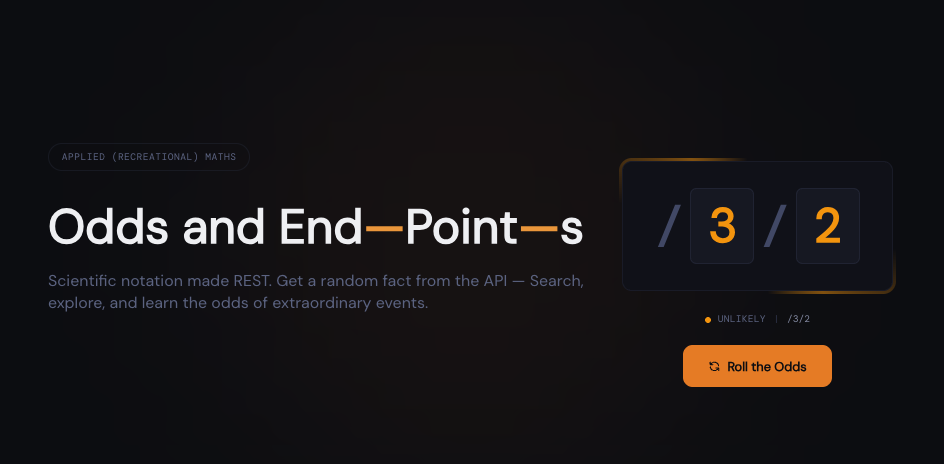
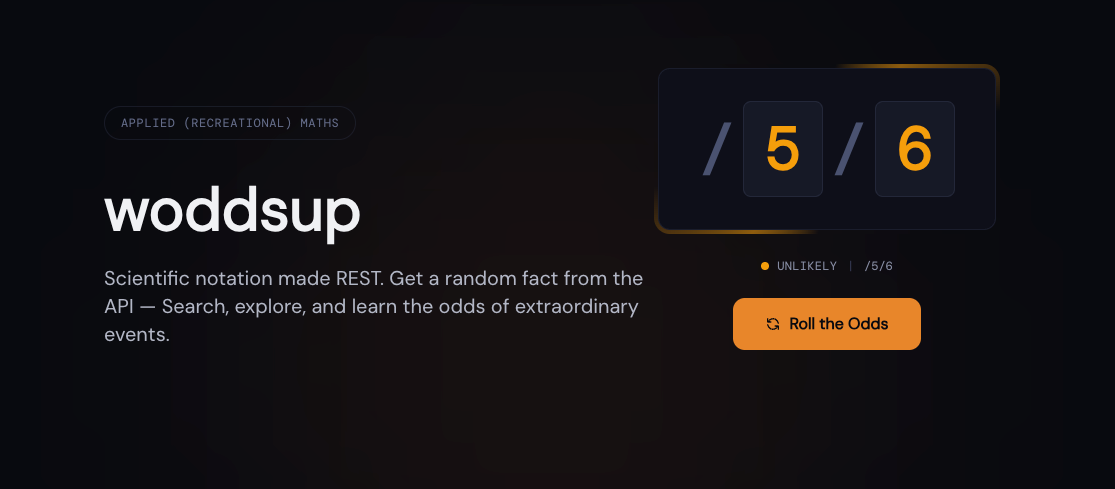
update name to woddsup.com

diff --git a/web/app/app.vue b/web/app/app.vue
@@ -11,23 +11,23 @@ useHead({
 });
 
 useSeoMeta({
-  title: 'Odds and End—Point—s',
-  ogTitle: 'Odds and End—Point—s',
+  title: 'woddsup',
+  ogTitle: 'woddsup',
   description: 'Scientific notation made REST. Get a random fact from the API',
   ogDescription:
     'Scientific notation made REST. Get a random fact from the API',
   ogImage: '/cover.png',
   ogImageWidth: 944,
   ogImageHeight: 464,
-  ogImageAlt: 'Odds and End—Point—s — Scientific notation made REST',
+  ogImageAlt: 'woddsup — Scientific notation made REST',
   ogType: 'website',
-  ogSiteName: 'Odds and End—Point—s',
+  ogSiteName: 'woddsup',
   ogLocale: 'en_US',
   twitterCard: 'summary_large_image',
   twitterImage: '/cover.png',
-  twitterTitle: 'Odds and End—Point—s',
+  twitterTitle: 'woddsup',
   twitterDescription:
     'Scientific notation made REST. Get a random fact from the API',
-  twitterImageAlt: 'Odds and End—Point—s — Scientific notation made REST',
+  twitterImageAlt: 'woddsup — Scientific notation made REST',
 });
 </script>

diff --git a/web/app/pages/index.vue b/web/app/pages/index.vue
@@ -18,15 +18,9 @@
             </span>
           </div>
           <h1
-            class="text-xl sm:text-4xl md:text-6xl font-display font-bold text-ink-50 mb-6 flex flex-col sm:flex-row sm:justify-center"
+            class="text-xl sm:text-4xl md:text-6xl font-display font-bold text-ink-50 mb-6"
           >
-            <span>Odds and&nbsp;</span>
-            <span
-              >End<span class="text-ember-400">&mdash;</span>Point<span
-                class="text-ember-400"
-                >&mdash;</span
-              >s</span
-            >
+            woddsup
           </h1>
           <p
             class="text-lg md:text-xl text-ink-200 mb-12 max-w-2xl mx-auto leading-relaxed"

diff --git a/web/app/pages/e/[n]/[m].vue b/web/app/pages/e/[n]/[m].vue
@@ -138,8 +138,8 @@ const firstEvent = computed(() => events.value?.[0]);
 useSeoMeta({
   title: () => {
     const evt = firstEvent.value;
-    if (!evt) return `/${n.value}/${m.value} — Odds and End—Point—s`;
-    return `${evt.fraction} — ${evt.exampleEvent} — Odds and End—Point—s`;
+    if (!evt) return `/${n.value}/${m.value} — woddsup`;
+    return `${evt.fraction} — ${evt.exampleEvent} — woddsup`;
   },
   description: () => firstEvent.value?.exampleDescription || '',
 });

diff --git a/web/app/pages/e/[n]/[m]/[slug].vue b/web/app/pages/e/[n]/[m]/[slug].vue
@@ -295,8 +295,8 @@ onMounted(() => {
 
 useSeoMeta({
   title: () => {
-    if (!event.value) return `/${n.value}/${m.value} — Odds and End—Point—s`;
-    return `${event.value.exampleEvent} — Odds and End—Point—s`;
+    if (!event.value) return `/${n.value}/${m.value} — woddsup`;
+    return `${event.value.exampleEvent} — woddsup`;
   },
   description: () => event.value?.exampleDescription || '',
 });

diff --git a/web/app/components/AppFooter.vue b/web/app/components/AppFooter.vue
@@ -98,7 +98,7 @@
       <div
         class="border-t border-ink-800 pt-6 flex flex-col sm:flex-row items-center justify-between gap-3 text-xs text-ink-300"
       >
-        <p>&copy; {{ new Date().getFullYear() }} Odds and End—Point—s</p>
+        <p>&copy; {{ new Date().getFullYear() }} woddsup</p>
         <p>Built with curiosity and scientific rigor.</p>
       </div>
     </div>

diff --git a/web/app/components/ApiSyntaxSection.vue b/web/app/components/ApiSyntaxSection.vue
@@ -13,6 +13,7 @@
             A REST-friendly notation system for indexing real-world
             probabilities.
           </p>
+          <p class="text-ink-400 text-xs mt-1">Previously known as "Odds and End—Point—s."</p>
         </div>
 
         <div class="card p-6 sm:p-8 mb-10">

diff --git a/web/app/components/Logo.vue b/web/app/components/Logo.vue
@@ -14,7 +14,7 @@
       class="text-lg font-display font-semibold tracking-tight"
       :class="dark ? 'text-ink-300' : 'text-ink-100'"
     >
-      Odds and <wbr />End—Point—s
+      woddsup
     </span>
   </div>
 </template>
